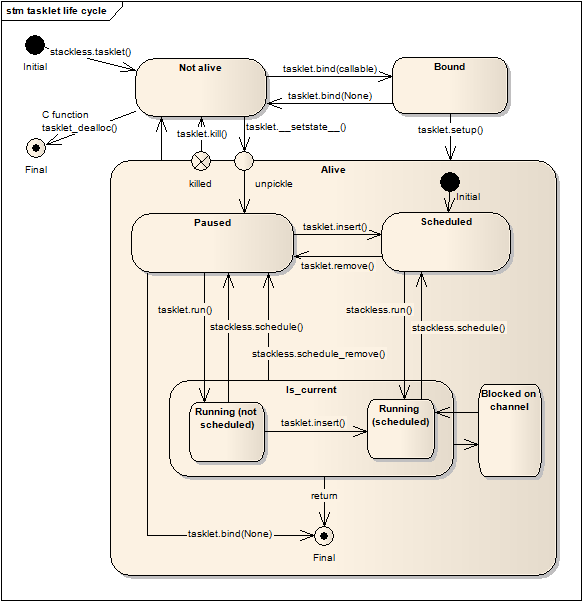
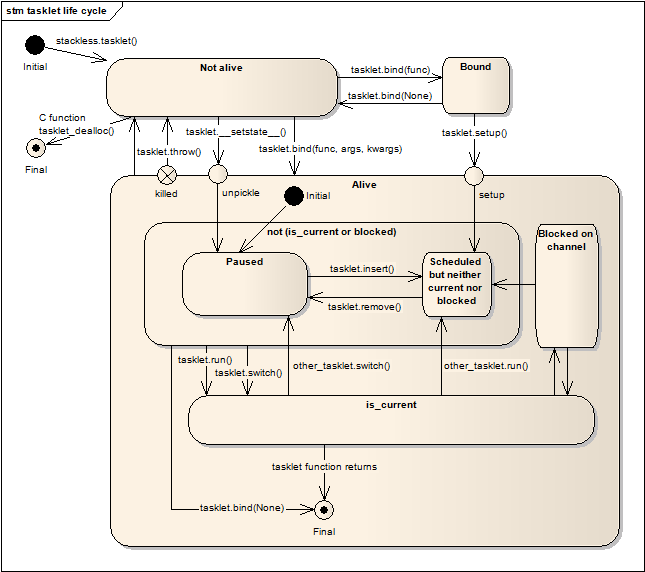
Issue #28: update the documentation of class tasklet This commit updates the tasklet life cycle diagram an adds more examples. It also fixes to minor rst markup issues.

Changed region(s): [[0.0, 0.0, 1.0, 1.0]]

diff --git a/Doc/library/stackless/tasklets.rst b/Doc/library/stackless/tasklets.rst
@@ -135,7 +135,8 @@ The ``tasklet`` class
    provided with arguments to pass to it, they are implicitly
    scheduled and will be run in turn when the scheduler is next run.
 
-   The above code is equivalent to
+   The above code is equivalent to::
+   
    >>> t = stackless.tasklet()
    >>> t.bind(func, (1, 2), {"name":"test"})
    >>> t.insert()
@@ -156,22 +157,27 @@ The ``tasklet`` class
    
    Example - running a tasklet that is scheduled::
    
-       >>> def f():
-       ...     while 1:
-       ...             print(id(stackless.current))
-       ...             stackless.schedule()
-       ...
-       >>> t1 = stackless.tasklet(f)()
-       >>> t2 = stackless.tasklet(f)()
-       >>> t3 = stackless.tasklet(f)()
-       >>> t1.run()
-       29524656
-       29525936
-       29526512
+      >>> def f(name):
+      ...     while True:
+      ...         c=stackless.current
+      ...         m=stackless.main
+      ...         assert c.scheduled
+      ...         print("%s id=%s, next.id=%s, main.id=%s, main.scheduled=%r" % (name,id(c), id(c.next), id(m), m.scheduled))
+      ...         stackless.schedule()
+      ...
+      >>> t1 = stackless.tasklet(f)("t1")
+      >>> t2 = stackless.tasklet(f)("t2")
+      >>> t3 = stackless.tasklet(f)("t3")
+      >>>
+      >>> t1.run()
+      t1 id=36355632, next.id=36355504, main.id=30571120, main.scheduled=True
+      t2 id=36355504, next.id=36355888, main.id=30571120, main.scheduled=True
+      t3 id=36355888, next.id=30571120, main.id=30571120, main.scheduled=True
 
    What you see here is that *t1* is not the only tasklet that ran.  When *t1*
    yields, the next tasklet in the chain is scheduled and so forth until the
-   tasklet that actually ran *t1* is scheduled and resumes execution.
+   tasklet that actually ran *t1* - that is the main tasklet - is scheduled and
+   resumes execution.
    
    If you were to run *t2* instead of *t1*, then we would have only seen the
    output of *t2* and *t3*, because the tasklet calling :attr:`run` is before
@@ -182,26 +188,52 @@ The ``tasklet`` class
    keep in mind that the scheduler is still being run and the chain is still
    involved, the only reason it looks correct is tht the act of removing the
    tasklet effectively moves it before the tasklet that calls
-   :attr:`remove`.
+   :meth:`remove`.
 
    Example - running a tasklet that is not scheduled::
 
-       >>> t2.remove()
-       <stackless.tasklet object at 0x01C287B0>
-       >>> t2.run()
-       29525936
-
+      >>> t2.remove()
+      <stackless.tasklet object at 0x022ABDB0>
+      >>> t2.run()
+      t2 id=36355504, next.id=36356016, main.id=36356016, main.scheduled=True
+      >>> t2.scheduled
+      True
+      
    While the ability to run a tasklet directly is useful on occasion, that
    the scheduler is still involved and that this is merely directing its
    operation in limited ways, is something you need to be aware of.
 
-.. method:: tasklet.run()
+.. method:: tasklet.switch()
 
-   Similar to :method:`tasklet.run` except that the calling tasklet is
+   Similar to :meth:`tasklet.run` except that the calling tasklet is
    paused.  This function can be used to implement `raw` scheduling without involving
    the scheduling queue.
 
    The target tasklet must belong to the same thread as the caller.
+   
+   Example - switch to a tasklet that is scheduled. Function f is defined as 
+   in the previous example::
+      
+      >>> t1 = stackless.tasklet(f)("t1")
+      >>> t2 = stackless.tasklet(f)("t2")
+      >>> t3 = stackless.tasklet(f)("t3")
+      >>> t1.switch()
+      t1 id=36413744, next.id=36413808, main.id=36413680, main.scheduled=False
+      t2 id=36413808, next.id=36413872, main.id=36413680, main.scheduled=False
+      t3 id=36413872, next.id=36413744, main.id=36413680, main.scheduled=False
+      t1 id=36413744, next.id=36413808, main.id=36413680, main.scheduled=False
+      t2 id=36413808, next.id=36413872, main.id=36413680, main.scheduled=False
+      t3 id=36413872, next.id=36413744, main.id=36413680, main.scheduled=False
+      t1 id=36413744, next.id=36413808, main.id=36413680, main.scheduled=False
+      ...
+      Traceback (most recent call last):
+        File "<stdin>", line 1, in <module>
+        File "<stdin>", line 6, in f
+      KeyboardInterrupt
+      >>>
+      
+   What you see here is that the main tasklet was removed from the scheduler. 
+   Therefore the scheduler runs until it got interrupted by a keyboard interrupt.
 
 .. method:: tasklet.raise_exception(exc_class, *args)
 
@@ -227,7 +259,7 @@ The ``tasklet`` class
 .. method:: tasklet.kill(pending=False)
 
    Raises the :ref:`TaskletExit <slp-exc>` excption on the tasklet.
-   *pending* has the same meaning as for :method:`tasklet.throw`.
+   *pending* has the same meaning as for :meth:`tasklet.throw`.
 
    This can be considered to be shorthand for::
 
@@ -348,9 +380,28 @@ The following attributes allow a tasklets place in a chain to be identified:
 Tasklet Life Cycle
 ^^^^^^^^^^^^^^^^^^
 
-Here is a somewhat simplified state chart that shows the life cycle of a tasklet instance.
-The chart dosn't show the nesting-level, the thread-id and the flags atomic, ignore-nesting, block-trap 
-and restorable.
+Here is a somewhat simplified state chart that shows the life cycle of a 
+tasklet instance. The chart dosn't show the nesting-level, the thread-id 
+and the flags atomic, ignore-nesting, block-trap and restorable. 
 
 .. image:: tasklet_state_chart.png
 
+Furthermore the diagram does not show the scheduler functions 
+:func:`stackless.run`, :func:`stackless.schedule` and 
+:func:`stackless.schedule_remove()`. For the purpose of understanding the 
+state transitions these functions are roughly equivalnt to the following 
+Python definitions::
+
+   def run():
+       main = stackless.current
+       def watchdog():
+           while stackless.runcount > 1:
+               stackless.current.next.run()
+           main.switch()
+       stackless.tasklet(watchdog)().switch()
+      
+   def schedule():
+       stackless.current.next.run()
+   
+   def schedule_remove():
+       stackless.current.next.switch()
